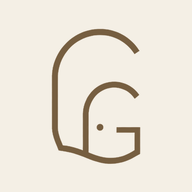
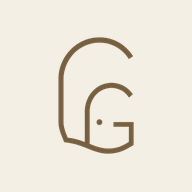
앱 아이콘 새로 만들기: 바탕 #f4efe5 단색 + 안드로이드용 maskable 아이콘 추가
Claude-Session: https://claude.ai/code/session_013o6XxXmBE1bi9THgSeACsS

Changed region(s): [[0.25, 0.125, 0.75, 0.875], [0.5, 0.625, 0.5625, 0.6875]]

diff --git a/index.html b/index.html
@@ -15,9 +15,9 @@
 <meta property="og:image:height" content="630">
 <meta name="twitter:card" content="summary_large_image">
 <meta name="twitter:image" content="https://gangnam-calme-guide.vercel.app/og-image.jpg">
-<link rel="icon" type="image/png" href="icon.png?v=2">
-<link rel="apple-touch-icon" href="icon.png?v=2">
-<link rel="manifest" href="manifest.webmanifest?v=2">
+<link rel="icon" type="image/png" href="icon.png?v=3">
+<link rel="apple-touch-icon" href="icon.png?v=3">
+<link rel="manifest" href="manifest.webmanifest?v=3">
 <meta name="theme-color" content="#f4efe5">
 <meta name="apple-mobile-web-app-capable" content="yes">
 <meta name="mobile-web-app-capable" content="yes">

diff --git a/preview.html b/preview.html
@@ -15,9 +15,9 @@
 <meta property="og:image:height" content="630">
 <meta name="twitter:card" content="summary_large_image">
 <meta name="twitter:image" content="https://gangnam-calme-guide.vercel.app/og-image.jpg">
-<link rel="icon" type="image/png" href="icon.png?v=2">
-<link rel="apple-touch-icon" href="icon.png?v=2">
-<link rel="manifest" href="manifest.webmanifest?v=2">
+<link rel="icon" type="image/png" href="icon.png?v=3">
+<link rel="apple-touch-icon" href="icon.png?v=3">
+<link rel="manifest" href="manifest.webmanifest?v=3">
 <meta name="theme-color" content="#f4efe5">
 <meta name="apple-mobile-web-app-capable" content="yes">
 <meta name="mobile-web-app-capable" content="yes">
